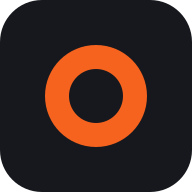
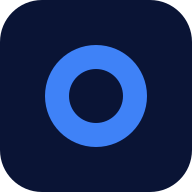
updated branding

Changed region(s): [[0.2188, 0.2188, 0.7812, 0.7812]]

diff --git a/resources/views/partials/favicons.blade.php b/resources/views/partials/favicons.blade.php
@@ -1,5 +1,5 @@
 {{-- The TRUMO app icon for browser tabs and phone home screens. --}}
-<link rel="icon" href="{{ asset('images/trumo-icon.svg') }}" type="image/svg+xml">
-<link rel="icon" href="{{ asset('images/trumo-icon-32.png') }}" type="image/png" sizes="32x32">
-<link rel="apple-touch-icon" href="{{ asset('images/trumo-icon-180.png') }}">
-<meta name="theme-color" content="#16181D">
+<link rel="icon" href="{{ asset('images/trumo-icon.svg') }}?v={{ @filemtime(public_path('images/trumo-icon.svg')) ?: 1 }}" type="image/svg+xml">
+<link rel="icon" href="{{ asset('images/trumo-icon-32.png') }}?v={{ @filemtime(public_path('images/trumo-icon-32.png')) ?: 1 }}" type="image/png" sizes="32x32">
+<link rel="apple-touch-icon" href="{{ asset('images/trumo-icon-180.png') }}?v={{ @filemtime(public_path('images/trumo-icon-180.png')) ?: 1 }}">
+<meta name="theme-color" content="#0A1435">

diff --git a/resources/views/mail/checkout-recovery.blade.php b/resources/views/mail/checkout-recovery.blade.php
@@ -49,7 +49,7 @@
                 <tr>
                     <td style="background-color:#071437; padding:22px 36px;">
                         <table role="presentation" width="100%" cellpadding="0" cellspacing="0" border="0"><tr>
-                            <td><img src="{{ asset('images/trumo-logo-white-1200.png') }}" alt="{{ $brand }}" width="144" height="24" style="display:block; width:144px; height:24px; border:0;"></td>
+                            <td><img src="{{ asset('images/trumo-logo-white-1200.png') }}" alt="{{ $brand }}" width="114" height="28" style="display:block; width:114px; height:28px; border:0;"></td>
                             <td align="right" style="{{ $display }} font-size:14px; font-weight:700; letter-spacing:0.02em; text-transform:uppercase; color:#C9D3E6;">{{ $copy['tag'] }}</td>
                         </tr></table>
                     </td>

diff --git a/resources/views/partials/logo.blade.php b/resources/views/partials/logo.blade.php
@@ -9,4 +9,4 @@
     // The file's own timestamp busts browser caches whenever the logo is replaced.
     $version = @filemtime(public_path('images/'.$file)) ?: 1;
 @endphp
-<img src="{{ asset('images/'.$file) }}?v={{ $version }}" alt="TRUMO" class="site-logo" height="{{ $height }}" width="{{ round($height * 4772 / 792) }}" style="height:{{ $height }}px; width:auto; display:block;">
+<img src="{{ asset('images/'.$file) }}?v={{ $version }}" alt="TRUMO" class="site-logo" height="{{ $height }}" width="{{ round($height * 3240 / 799) }}" style="height:{{ $height }}px; width:auto; display:block;">
